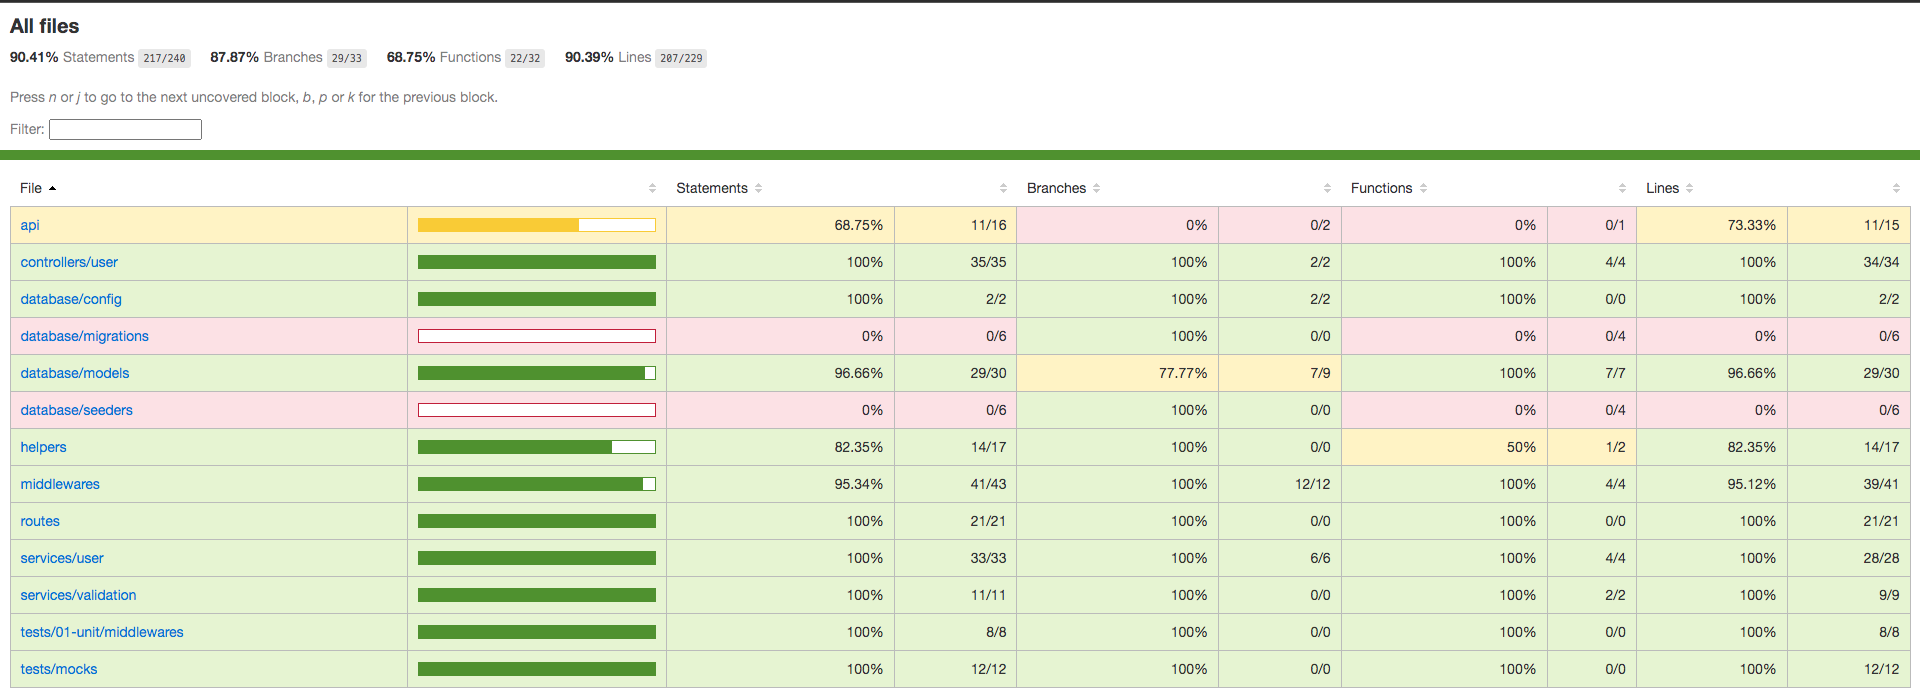
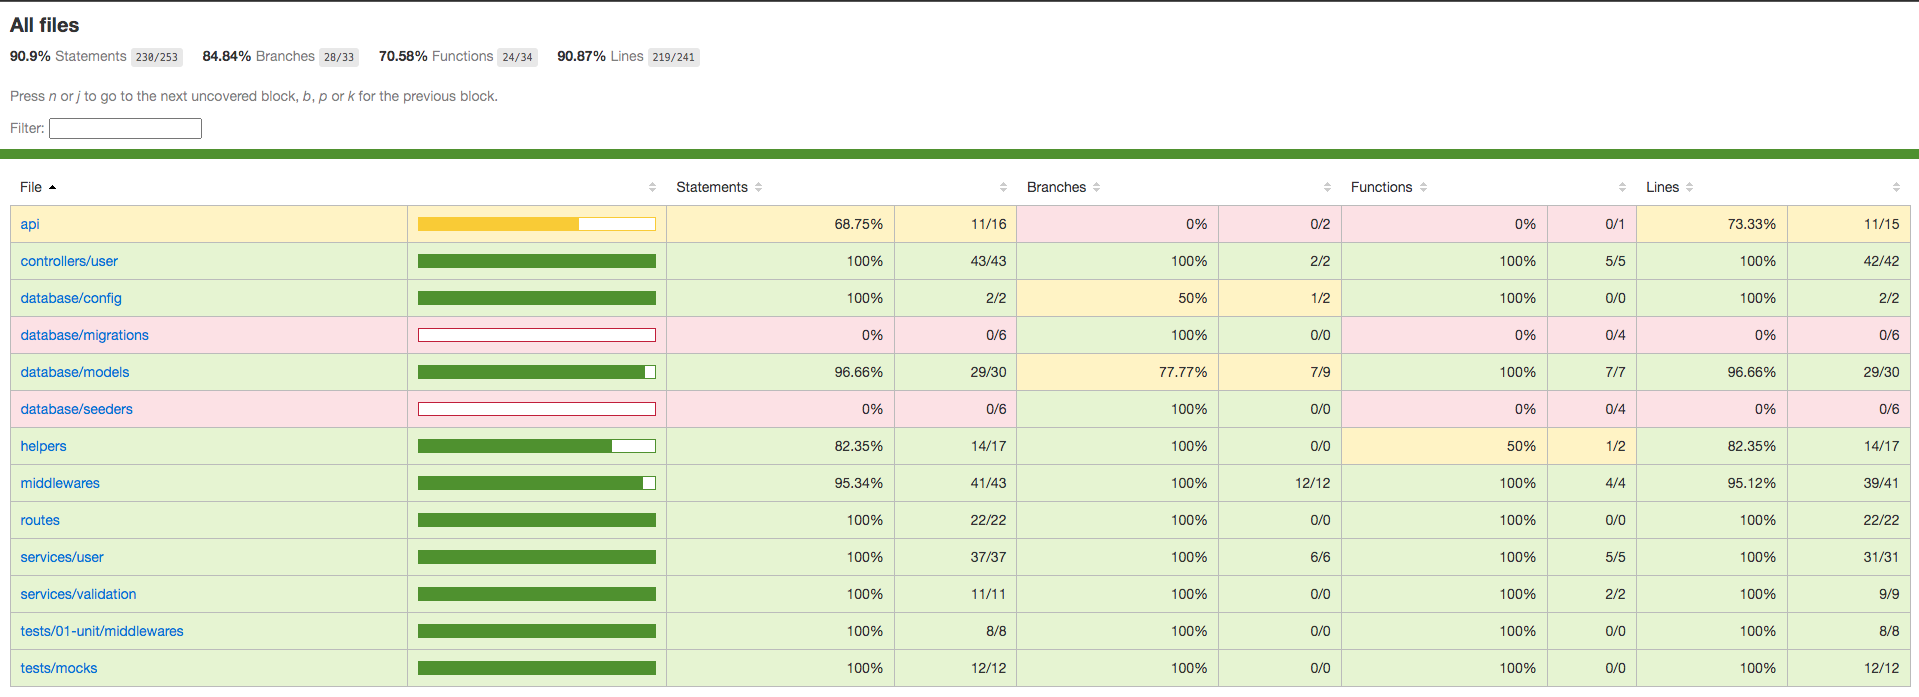
[ PR ] - Adicionando rota DELETE/user/me (#8)
* test : testes de integração da rota DELETE/user/me

* test : testes unitários do service da rota DELETE/user/me

* feat : service da rota DELETE/user/me

* test : testes do controller da rota DELETE/user/me

* feat : controller da rota DELETE/user/me

* feat : adicionando rota DELETE/user/me

* doc : atualizando cobertura de testes

diff --git a/src/tests/02-integration/user/deleteUserMe.test.js b/src/tests/02-integration/user/deleteUserMe.test.js
@@ -1,0 +1,113 @@
+const chai = require('chai');
+const chaiHttp = require('chai-http');
+const sinon = require('sinon');
+
+const app = require('../../../api/app');
+const { User } = require('../../../database/models');
+const { jwt } = require('../../../helpers');
+const userMock = require('../../mocks/user');
+
+chai.use(chaiHttp);
+
+const { expect } = chai;
+
+describe('DELETE/user/me', () => {
+  describe('Em caso de erro interno', () => {
+    let response;
+    before(async () => {
+      sinon.stub(jwt, 'validateToken').returns(userMock.created)
+      sinon.stub(User, 'destroy').rejects();
+      response = await chai.request(app)
+        .delete('/user/me')
+        .set('Authorization', userMock.token)
+
+      await jwt.validateToken.restore();
+      await User.destroy.restore();
+    });
+
+    it('retorna o código de status 500', () => {
+      expect(response).to.have.status(500);
+    });
+
+    it('retorna um objeto', () => {
+      expect(response.body).to.be.an('object');
+    });
+
+    it('o objeto possui a propriedade "message"', () => {
+      expect(response.body).to.have.property('message');
+    });
+
+    it('a propriedade "message" possui o texto "Internal Error"', () => {
+      expect(response.body.message).to.be.equal('Internal Error');
+    });
+  });
+
+  describe('Não é possível deletar usuários', () => {
+    describe('com token de autenticação ausente', () => {
+      let response;
+      before(async () => {
+        response = await chai.request(app)
+          .delete('/user/me')
+      });
+
+      it('retorna o código de status 401', () => {
+        expect(response).to.have.status(401);
+      });
+
+      it('retorna um objeto', () => {
+        expect(response.body).to.be.an('object');
+      });
+
+      it('o objeto possui a propriedade "message"', () => {
+        expect(response.body).to.have.property('message');
+      });
+
+      it('a propriedade "message" possui o texto "Token não encontrado"', () => {
+        expect(response.body.message).to.be.equal('Token não encontrado');
+      });
+    });
+
+    describe('com um token de autenticação inválido ou expirado', () => {
+      let response;
+      before(async () => {
+        response = await chai.request(app)
+          .delete('/user/me')
+          .set('Authorization', 'tokenIvalido')
+      });
+
+      it('retorna o código de status 401', () => {
+        expect(response).to.have.status(401);
+      });
+
+      it('retorna um objeto', () => {
+        expect(response.body).to.be.an('object');
+      });
+
+      it('o objeto possui a propriedade "message"', () => {
+        expect(response.body).to.have.property('message');
+      });
+
+      it('a propriedade "message" possui o texto "Token expirado ou inválido"', () => {
+        expect(response.body.message).to.be.equal('Token expirado ou inválido');
+      });
+    });
+  });
+
+  describe('É possível deletar usuários com token válido', () => {
+    let response;
+      before(async () => {
+        sinon.stub(jwt, 'validateToken').returns(userMock.created)
+        sinon.stub(User, 'destroy').resolves(undefined);
+        response = await chai.request(app)
+        .delete('/user/me')
+        .set('Authorization', userMock.token)
+
+      await jwt.validateToken.restore();
+      await User.destroy.restore();
+      });
+      
+      it('retorna o código de status 204', () => {
+        expect(response).to.have.status(204);
+      });
+  });
+});

diff --git a/src/tests/01-unit/user/controllers.test.js b/src/tests/01-unit/user/controllers.test.js
@@ -195,3 +195,37 @@ describe('O controller da rota GET/user/:id', () => {
     });
   });
 });
+
+describe('O controller da rota DELETE/user/me', () => {
+  const response = {};
+  const request = {};
+  let next;
+
+  before(() => {
+    response.status = sinon.stub().returns(response);
+    response.end = sinon.stub().returns();
+    next = sinon.stub().returns();
+  });
+
+  describe('Em caso de sucesso', () => {
+    before(() => {
+      sinon.stub(userService, 'remove').resolves(undefined);
+      request.user = { id: 1 };
+    });
+
+    after(async () => {
+      await userService.remove.restore();
+      request.user = undefined;
+    });
+
+    it('res.status é chamada com o código 204', async () => {
+      await userController.remove(request, response, next);
+      expect(response.status.calledWith(204)).to.be.true;
+    });
+
+    it('res.end é chamado', async () => {
+      await userController.remove(request, response, next);
+      expect(response.end.called).to.be.true;
+    });
+  });
+});

diff --git a/src/tests/01-unit/user/services.test.js b/src/tests/01-unit/user/services.test.js
@@ -164,3 +164,25 @@ describe('O serviço da rota GET/user/:id', () => {
     expect(response).to.deep.equals(userMock.created)
   });
 });
+
+describe('O serviço da rota DELETE/user/me', () => {
+  let response;
+
+  before(async () => {
+    sinon.stub(User, 'destroy').resolves({ info: true});
+
+    response = await userService.remove();
+  });
+
+  after(async () => {
+    await User.destroy.restore();
+  });
+
+  it('retorna um object', () => {
+    expect(response).to.be.an('object');
+  });
+
+  it('o array é igual ao esperado', () => {
+    expect(response).to.deep.equals({ info: true})
+  });
+});

diff --git a/src/routes/user.js b/src/routes/user.js
@@ -8,5 +8,6 @@ const router = express.Router({ mergeParams: true });
 router.post('/', validateUser, userController.create);
 router.get('/', auth, userController.getAll);
 router.get('/:id', auth, userController.getById);
+router.delete('/me', auth, userController.remove);
 
 module.exports = router;

diff --git a/src/controllers/user/index.js b/src/controllers/user/index.js
@@ -2,10 +2,12 @@ const create = require('./create');
 const login = require('./login');
 const getAll = require('./getAll');
 const getById = require('./getById');
+const remove = require('./remove');
 
 module.exports = {
   create,
   login,
   getAll,
   getById,
+  remove,
 };

diff --git a/src/services/user/index.js b/src/services/user/index.js
@@ -2,10 +2,12 @@ const create = require('./create');
 const login = require('./login');
 const getAll = require('./getAll');
 const getById = require('./getById');
+const remove = require('./remove');
 
 module.exports = {
   create,
   login,
   getAll,
   getById,
+  remove,
 };

diff --git a/src/controllers/user/remove.js b/src/controllers/user/remove.js
@@ -1,0 +1,13 @@
+const UserService = require('../../services/user');
+
+module.exports = async (req, res, next) => {
+  try {
+    const { id } = req.user;
+
+    await UserService.remove(id);
+
+    return res.status(204).end();
+  } catch (e) {
+    return next(e);
+  }
+};

diff --git a/src/services/user/remove.js b/src/services/user/remove.js
@@ -1,0 +1,5 @@
+const { User } = require('../../database/models');
+
+module.exports = async (id) => User.destroy({
+  where: { id },
+});
